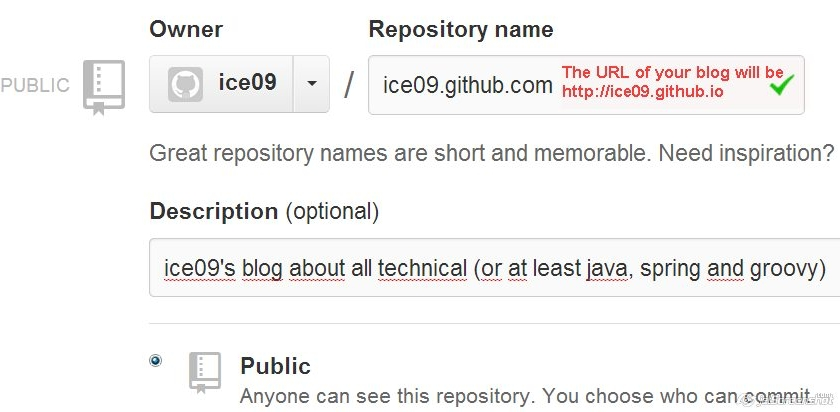
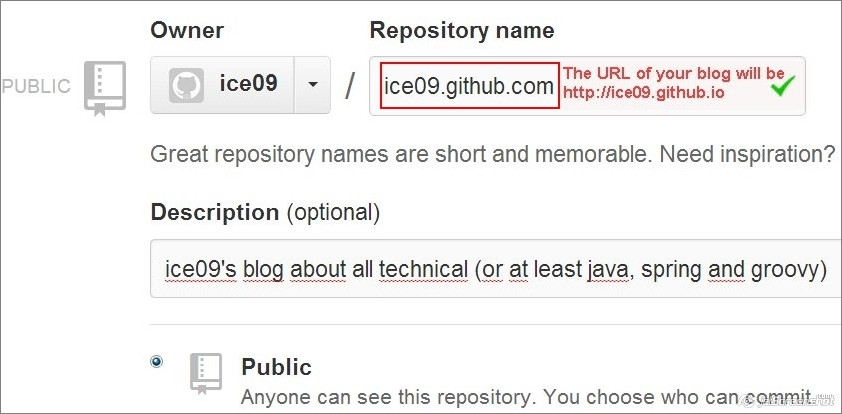
changed css, text and config

diff --git a/_posts/2013-04-28-101-blogging-with-jekyll-github-pages-gist.md b/_posts/2013-04-28-101-blogging-with-jekyll-github-pages-gist.md
@@ -3,17 +3,45 @@ layout: post
 title: "101 Blogging with Jekyll, GitHub Pages, Gist"
 description: ""
 category: 
-tags: []
+tags: ()
 ---
 {% include JB/setup %}
+
+# Setup
+
+* Install Ruby: [http://www.ruby-lang.org/de/downloads/](http://www.ruby-lang.org/de/downloads/) (eg Ruby 2.0.0 RubyInstaller \(64 Bit\))
+* Install Jekyll: `gem install jekyll`
+
+<pre>
+C:\Windows\system32>gem install jekyll
+Fetching: liquid-2.5.0.gem (100%)
+Successfully installed liquid-2.5.0
+Fetching: fast-stemmer-1.0.2.gem (100%)
+ERROR:  Error installing jekyll:
+        The 'fast-stemmer' native gem requires installed build tools.
+
+Please update your PATH to include build tools or download the DevKit
+from 'http://rubyinstaller.org/downloads' and follow the instructions
+at 'http://github.com/oneclick/rubyinstaller/wiki/Development-Kit'
+</pre>
+
+* Choose the corresponding DevKit at [http://rubyinstaller.org/downloads](http://rubyinstaller.org/downloads) (eg. mingw64-64-4.7.2)
+* Start `msys.bat`, repeat command `gem install jekyll`
+* Dummy Tip: Install TortioseGit, especially if used to TortoiseSVN: [https://code.google.com/p/tortoisegit/wiki/Download](https://code.google.com/p/tortoisegit/wiki/Download)
+* [http://jekyllbootstrap.com/](http://jekyllbootstrap.com/)
+* Start the local jekyll server: `jekyll --server`
+* Install a theme: `rake theme:install git="https://github.com/jekyllbootstrap/theme-the-program.git"`
+
+<pre>
+git add .
+git commit -m "installed new theme"
+git push -u origin master
+</pre>
+
+# Add Post manually in GitHub
+
 <img src="/assets/2013-04-28-101-blogging-with-jekyll-github-pages-gist/img/blog1_createRepo.jpg" />
 
-und noch mehr...
+<img border="1" src="/assets/2013-04-28-101-blogging-with-jekyll-github-pages-gist/img/blog2_copyUrl.jpg" />
 
-<img src="/assets/2013-04-28-101-blogging-with-jekyll-github-pages-gist/img/blog2_copyUrl.jpg" />
-und mehr...
-<img src="/assets/2013-04-28-101-blogging-with-jekyll-github-pages-gist/img/blog3_createManually.jpg" />
-
-<p>
-hier sollte wohl noch text folgen...
-</p>
+<img border="1" src="/assets/2013-04-28-101-blogging-with-jekyll-github-pages-gist/img/blog3_createManually.jpg" />
